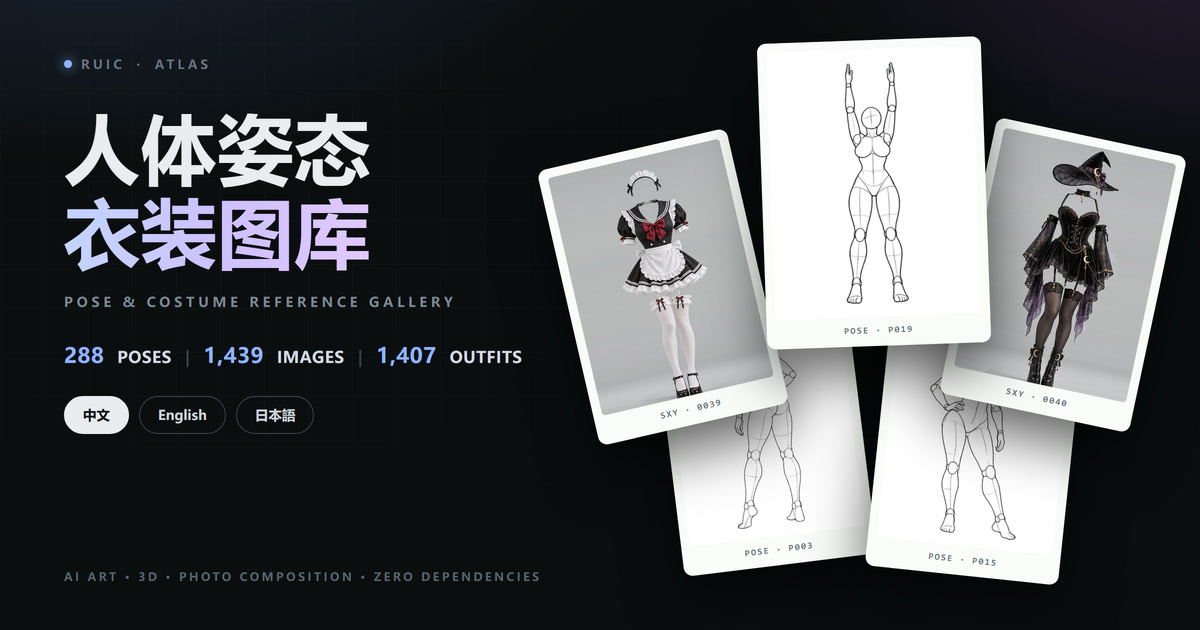
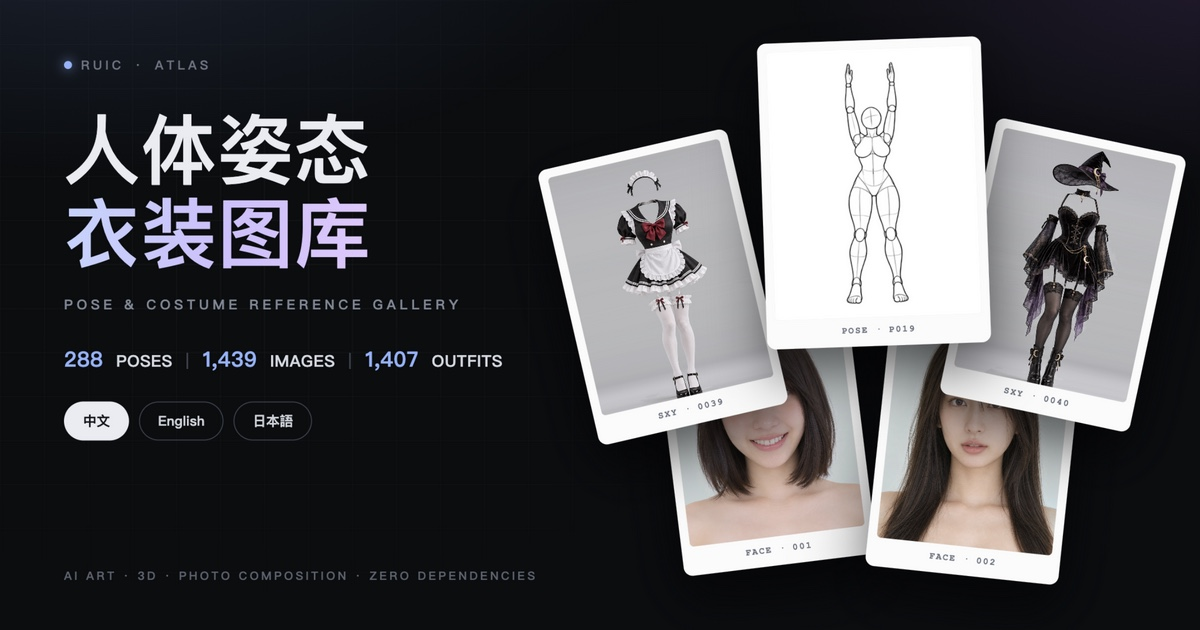
feat(cover): 封面底部两张卡片换成人脸

diff --git a/scripts/cover/og-cover.html b/scripts/cover/og-cover.html
@@ -123,7 +123,7 @@
     letter-spacing: .22em;
   }
 
-  /* ---- 五张卡片：上=人体，左右=衣装，下=两张人体 ---- */
+  /* ---- 五张卡片：上=人体，左右=衣装，下=两张人脸 ---- */
   .stack {
     position: absolute;
     right: 16px;
@@ -197,7 +197,7 @@
     transform: rotate(6deg);
     z-index: 2;
   }
-  .card.bl img, .card.br img { height: 226px; object-fit: contain; background: #fff; }
+  .card.bl img, .card.br img { height: 226px; object-fit: cover; object-position: top center; background: #ececec; }
 </style>
 </head>
 <body>
@@ -231,13 +231,13 @@
     </figure>
 
     <figure class="card bl">
-      <img src="../../img/full_sexy_P003_front.png" alt="">
-      <figcaption>POSE · P003</figcaption>
+      <img src="../../portrait/img/f71f980dde3.png" alt="">
+      <figcaption>FACE · 001</figcaption>
     </figure>
 
     <figure class="card br">
-      <img src="../../img/full_single_P015_front.png" alt="">
-      <figcaption>POSE · P015</figcaption>
+      <img src="../../portrait/img/f002475397d.png" alt="">
+      <figcaption>FACE · 002</figcaption>
     </figure>
 
     <figure class="card c">
